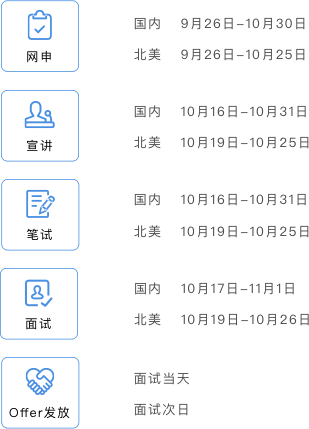
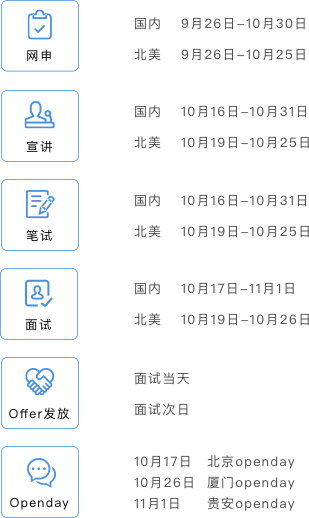
modify some feature

diff --git a/job/index.html b/job/index.html
@@ -23,7 +23,6 @@ title: 2019秋季校园招聘
         <li class="active bsc-close"><a href="#" >首页</a></li>
         <li class="hidden-sm hidden-xs navbar-md"><a href="#jobs-position-xl" >招聘职位</a></li>
         <li class="navbar-xs bsc-close"><a class="navbar-xs" href="#jobs-position-xs" >招聘职位</a></li>
-        <!-- <li><a href="#jobs-content">招聘流程</a></li> -->
         <li class="dropdown">
             <a class="navbar-md">招聘流程</a>
             <a class="navbar-xs dropdown-toggle" data-toggle="dropdown" aria-haspopup="true" aria-expanded="false">招聘流程</a>
@@ -47,9 +46,8 @@ title: 2019秋季校园招聘
 </nav>
 <div class="jobs" >
     <header id="jobs-head">
-      <img class="head-img  hidden-xs" src="{{ site.baseurl }}/public/image/job/IMG-HEAD.jpg">
-      <img class="head-img  visible-xs" src="{{ site.baseurl }}/public/image/job/IMG-HEAD-sm.jpg">
-      <!-- <div class="baishan-2019">2019秋季校园招聘</div> -->
+      <img class="head-img hidden-xs" src="{{ site.baseurl }}/public/image/job/IMG-HEAD.jpg">
+      <img class="head-img visible-xs" src="{{ site.baseurl }}/public/image/job/IMG-HEAD-sm.jpg">
     </header>
     <div id="jobs-position-xl" class="content-box position hidden-sm hidden-xs">
         <h2 class="title"><a name="招聘岗位">招聘岗位</a></h2>
@@ -539,7 +537,7 @@ title: 2019秋季校园招聘
                             <h4 class="dis-title">任职要求:</h4>
                             <p>1、计算机或相关专业硕士以上学历；</p>
                             <p>2、熟悉Linux(类Unix)操作系统，熟悉TCP/IP、http协议；</p>
-                            <p>3、熟练掌握Linux环境C、PHP、Perl、Python、Shell等1至2种语言，具有扎实的技术基础；</p>
+                            <p>3、熟练掌握Linux环境C、Java、PHP、Perl、Python、Shell等1至2种语言，具有扎实的技术基础；</p>
                             <p>4、善于学习和思考，勤于动手，不怕繁琐，重视流程规范。</p>
                             <a href="https://job.dajie.com/9004100100000022191.html?jobsearch=0&pagereferer=blank&keyword=%E7%A0%94%E5%8F%91%E5%B7%A5%E7%A8%8B%E5%B8%88+%E7%99%BD%E5%B1%B1%E4%BA%91&clicktype=job">
                                 <button class="apply-now">立即申请</button>
@@ -924,9 +922,7 @@ title: 2019秋季校园招聘
     </div>
     <div id="zhaopin" style="background-color:rgb(249,250,252)" class="content-box content-offer">
         <h2 class="title title-offer">招聘流程</h2>
-        <!-- <img class="process-img-lg content hidden-xs" src="{{ site.baseurl }}/public/image/job/zhaopinliucheng-lg.png"> -->
         <img style="clear:both;padding:50px 70px 0 70px;" class="process-img-sm content visible-xs" src="{{ site.baseurl }}/public/image/job/zhaopinliucheng-sm.jpg">
-        <img style="clear:both;padding:50px 70px 0 70px;" class="process-img-sm content visible-xs" src="{{ site.baseurl }}/public/image/job/openday.jpg">
         <div class="flow hidden-xs">
             <div class="flow-item">
                 <img src="{{ site.baseurl }}/public/image/job/net.png">
@@ -996,58 +992,6 @@ title: 2019秋季校园招聘
                 </div>
             </div>
         </div>
-
-        <!-- <div class="flow-xs visible-xs">
-            <div class="flow-item-xs">
-                <div class="item-title-xs">
-                    <p>网申</p>
-                </div>
-                <div class="item-info-xs">
-                    <p>国内 9月26日-10月30日</p>
-                    <p>北美 9月26日-10月25日</p>
-                </div>
-            </div>
-            <div class="flow-item-xs">
-                <div class="item-title-xs">
-                    <p>宣讲</p>
-                </div>
-                <div class="item-info-xs">
-                    <p>国内 10月16日-10月31日</p>
-                    <p>北美 10月19日-10月25日</p>
-                </div>
-            </div>
-            <div class="flow-item-xs">
-                <div class="item-title-xs">
-                    <p>笔试</p>
-                </div>
-                <div class="item-info-xs">
-                    <p>国内 10月16日-10月31日</p>
-                    <p>北美 10月19日-10月25日</p>
-                </div>
-            </div>
-            <div class="flow-item-xs">
-                <div class="item-title-xs">
-                    <p>面试／Offer</p>
-                </div>
-                <div class="item-info-xs">
-                    <p>国内 10月17日-11月01日</p>
-                    <p>北美 10月19日-10月26日</p>
-                </div>
-            </div>
-            <div class="flow-item-xs">
-                <div class="item-title-xs openday">
-                    <p>Openday</p>
-                </div>
-                <div class="item-info-xs">
-                    <p>北京 10月17日</p>
-                    <p>厦门 10月26日</p>
-                    <p>贵安 11月01日</p>
-                </div>
-            </div>
-            <div class="down">
-                <a href="#xuanjiang"><img src="{{ site.baseurl }}/public/image/job/down.png"></a>
-            </div>
-        </div> -->
     </div>
     <div id="xuanjiang" style="background-color:rgb(249,250,252)" class="content-box process">
         <h2 class="title"><a name="宣讲会">宣讲会流程</a></h2>
@@ -1059,7 +1003,6 @@ title: 2019秋季校园招聘
                   <div class="openday-left">
                       <img src="{{ site.baseurl }}/public/image/job/openday-blue.png" alt="">
                       <p class="openday-blue">OPENDAY</p>
-                      <!-- <p class="openday-info">10月12日 - 10月21日</p> -->
                   </div>
               </div>
               <div class="col-sm-6 col-xs-12 openday-box-r">
@@ -1138,10 +1081,10 @@ title: 2019秋季校园招聘
             </div>
             <div class="col-sm-3 col-xs-6 enjoy-item">
                 <div class="enjoy-box">
-                    <button >最独特培养</button>
+                    <button >最定制化培养</button>
                     <p>专属导师+师兄姐</p>
                     <p>定制化培养方案</p>
-                    <p>项目owner制培养</p>
+                    <p>项目owner培养</p>
                     <p>业界大牛1on1</p>
                     <p>自驱式快速成长</p>
                     <p>扬长不避短</p>
@@ -1158,10 +1101,10 @@ title: 2019秋季校园招聘
             </ol>   
             <div class="staffCare-carousel carousel-inner">
                 <div class="item active">
-                    <img class="staffCare-img" src="{{ site.baseurl }}/public/image/job/yuangongfengcai-lg.png" alt="First slide">
+                    <img class="staffCare-img" src="{{ site.baseurl }}/public/image/job/yuangongfengcai-lg.jpg" alt="First slide">
                 </div>
                 <div class="item">
-                    <img class="staffCare-img" src="{{ site.baseurl }}/public/image/job/yuangongfengcai-lg-1.png"" alt="Second slide">
+                    <img class="staffCare-img" src="{{ site.baseurl }}/public/image/job/yuangongfengcai-lg-1.jpg" alt="Second slide">
                 </div>
             </div>
           </div>

diff --git a/public/css/job.css b/public/css/job.css
@@ -22,7 +22,6 @@
 }
 .jobs header .head-img {
     width: 100%;
-    height: 100%;
     clear: both;
     display: block;
     object-fit: cover;
@@ -708,12 +707,13 @@
     margin-top:60px;
 }
 .jobs .staffCare .staffCare-carousel {
-    height: 568px;
+    height: 640px;
     width: 100%;
 }
 .jobs .staffCare .staffCare-carousel .staffCare-img {
-    height: 508px;
-    width: 100%;
+    margin: 0 auto;
+    height: 580px;
+    object-fit: cover;
 }
 @media(min-width:769px) {
      .jobs .jobs-slide-content{
@@ -767,7 +767,8 @@
       }
       .jobs .staffCare .staffCare-carousel .staffCare-img {
           height: 448px;
-          width: 100%;
+          margin: 0 auto;
+          object-fit: cover;
       }
     .jobs .jobs-slide-content{
         position: relative;

diff --git a/public/js/job.js b/public/js/job.js
@@ -1,6 +1,4 @@
 $(document).ready(function () {
-    $('#jobs-head').css("height", window.window.innerHeight.toString())
-    /* tabs */
     $('.jobs #jobs-tabsTrigger li').click(function (e) {
         e.stopPropagation()
         $('.jobs #jobs-tabsTrigger li').removeClass('active')
@@ -44,8 +42,4 @@ $(document).ready(function () {
         $('body > nav > div > div.navbar-header > button')[0].click()
       }
     })
-    // var pathname = window.location.pathname
-    // if( /\d*\/job\/\d*/.test(pathname)){
-    //   $('.bottom-nav-cn').css({"display": "none"})
-    // }
 })
